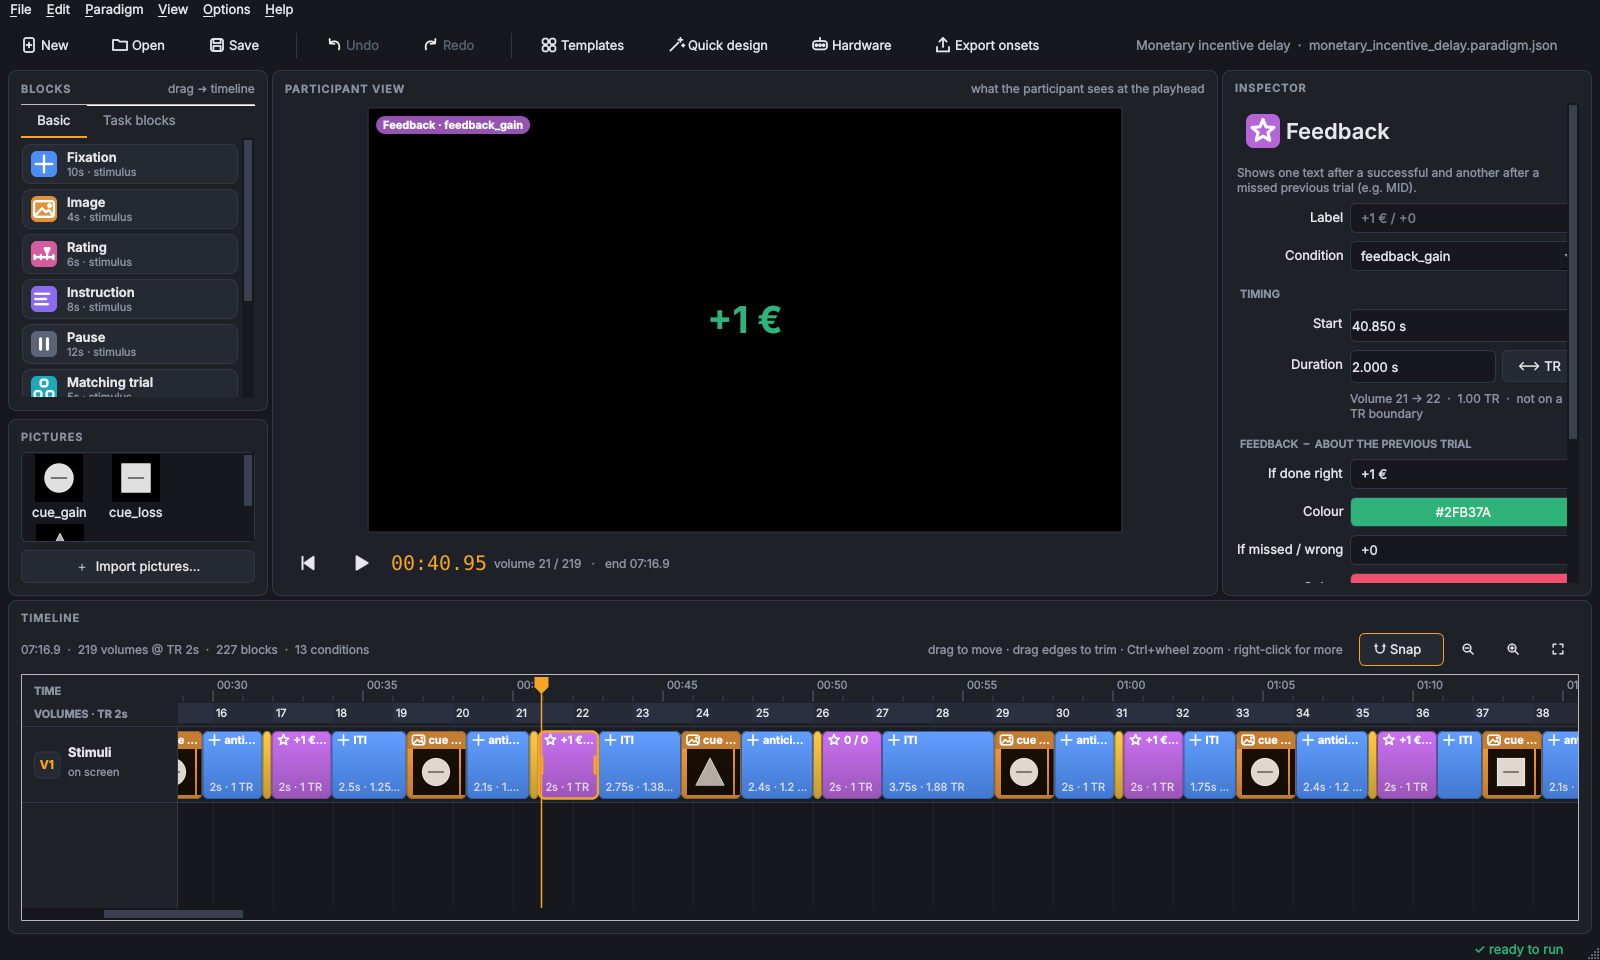
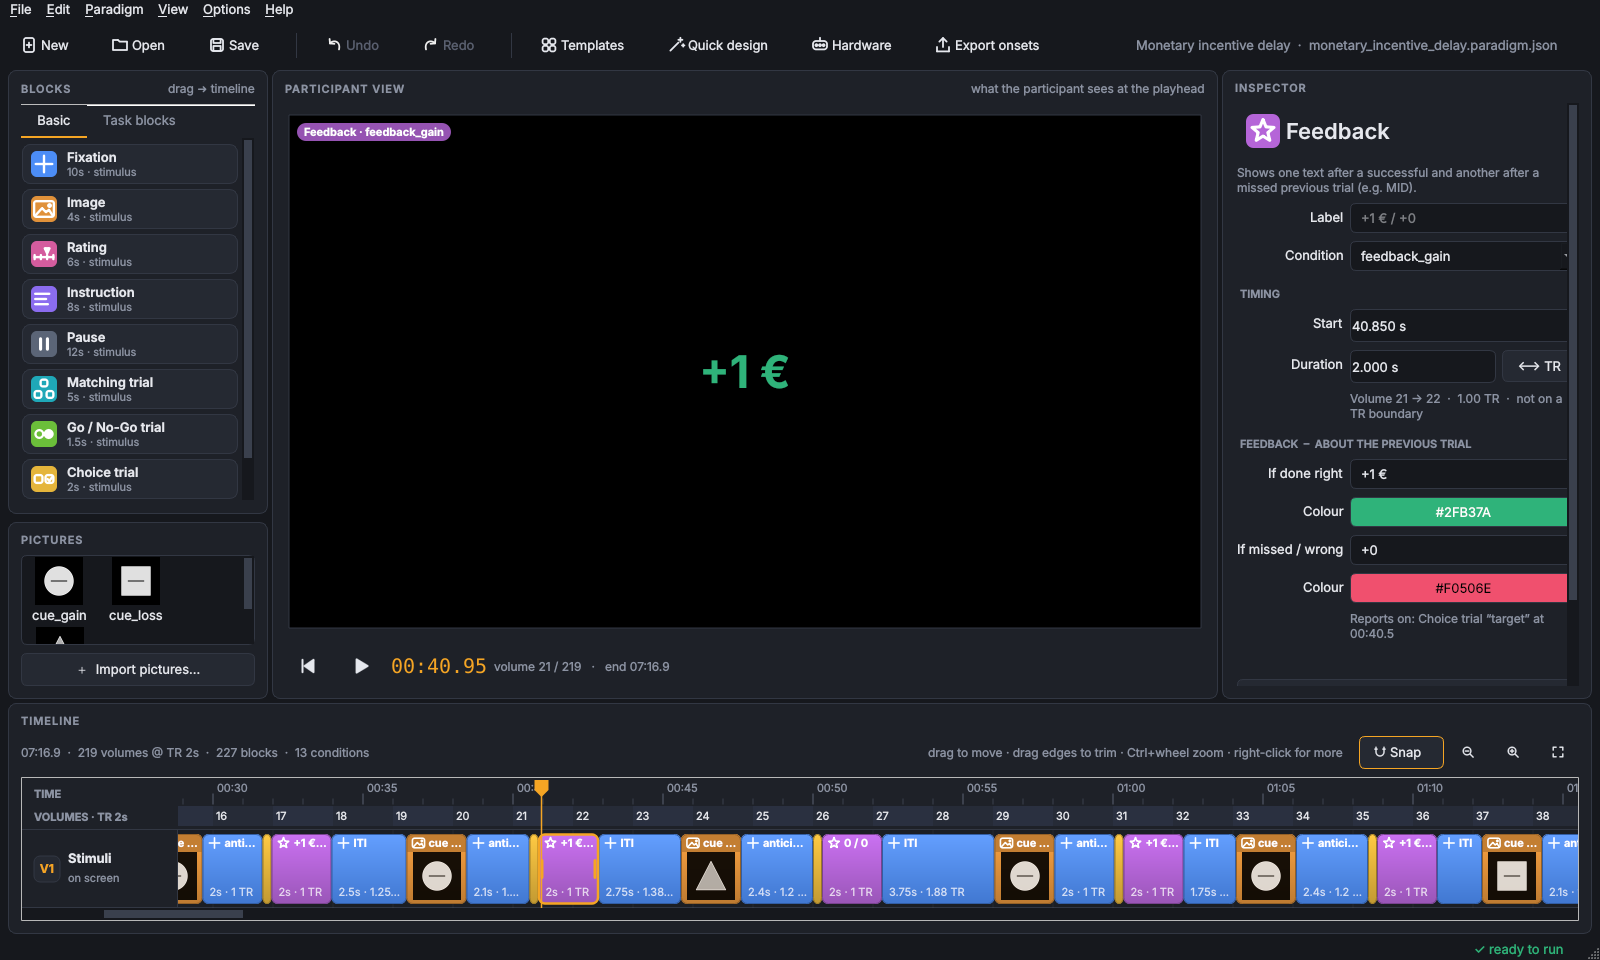
Timeline: single track fills the panel, no vertical scrolling, smallest by default
- The stimulus track scales with the timeline panel's height (minimum
  76 px); the vertical scrollbar is gone, so the content can't be
  scrolled up or down
- The timeline panel starts at its minimum height (top edge as low as
  possible); window resizing gives extra room to the panels above
- Track header text is centred vertically; thumbnails are cached in 8-px
  height steps
- Run test presses relative to the run start (was timing-dependent)

Claude-Session: https://claude.ai/code/session_01XoVQjxpMJqrgYsRynorSKz

Changed region(s): [[0.0, 0.0938, 1.0, 0.9688], [0.4375, 0.375, 0.5, 0.4062], [0.4375, 0.3125, 0.5, 0.3438]]

diff --git a/paradigmshift/timeline.py b/paradigmshift/timeline.py
@@ -19,7 +19,7 @@ IMAGE_EXT = (".png", ".jpg", ".jpeg", ".bmp", ".gif", ".tif", ".tiff", ".webp")
 
 RULER_H = 52
 HEADER_W = 156
-TRACK_H = 76
+TRACK_H = 76          # minimum track height – tracks grow to fill the panel
 TRACK_PAD = 8
 EDGE = 7            # px grab zone for resizing
 SNAP_PX = 10        # magnetic snapping distance
@@ -52,7 +52,7 @@ class TimelineView(QAbstractScrollArea):
         self.viewport().setAcceptDrops(True)
         self.viewport().setMouseTracking(True)
         self.setFocusPolicy(Qt.StrongFocus)
-        self.setVerticalScrollBarPolicy(Qt.ScrollBarAsNeeded)
+        self.setVerticalScrollBarPolicy(Qt.ScrollBarAlwaysOff)   # tracks scale to the panel – nothing to scroll
         self.setHorizontalScrollBarPolicy(Qt.ScrollBarAlwaysOn)
         self.horizontalScrollBar().valueChanged.connect(self.viewport().update)
         self.verticalScrollBar().valueChanged.connect(self.viewport().update)
@@ -75,7 +75,13 @@ class TimelineView(QAbstractScrollArea):
         return self.horizontalScrollBar().value()
 
     def _scroll_y(self) -> int:
-        return self.verticalScrollBar().value()
+        return 0
+
+    @property
+    def track_h(self) -> float:
+        """Tracks share the panel's height (never smaller than TRACK_H)."""
+        n = max(1, len(self.p.tracks))
+        return max(TRACK_H, (self.viewport().height() - RULER_H) / n)
 
     def x_of(self, t: float) -> float:
         return HEADER_W + t * self.pps - self._scroll_x()
@@ -84,17 +90,17 @@ class TimelineView(QAbstractScrollArea):
         return (x - HEADER_W + self._scroll_x()) / self.pps
 
     def track_top(self, i: int) -> float:
-        return RULER_H + i * TRACK_H - self._scroll_y()
+        return RULER_H + i * self.track_h - self._scroll_y()
 
     def track_at(self, y: float) -> int | None:
         if y < RULER_H:
             return None
-        i = int((y - RULER_H + self._scroll_y()) // TRACK_H)
+        i = int((y - RULER_H + self._scroll_y()) // self.track_h)
         return i if 0 <= i < len(self.p.tracks) else None
 
     def block_rect(self, b: Block) -> QRectF:
         top = self.track_top(b.track) + TRACK_PAD / 2
-        return QRectF(self.x_of(b.start), top, max(2.0, b.duration * self.pps), TRACK_H - TRACK_PAD)
+        return QRectF(self.x_of(b.start), top, max(2.0, b.duration * self.pps), self.track_h - TRACK_PAD)
 
     def block_at(self, pos: QPointF) -> tuple[Block | None, str]:
         for b in sorted(self.p.blocks, key=lambda b: -b.start):
@@ -119,7 +125,7 @@ class TimelineView(QAbstractScrollArea):
         sb.setRange(0, max(0, int(content - self.viewport().width())))
         sb.setPageStep(self.viewport().width())
         sb.setSingleStep(20)
-        h = RULER_H + len(self.p.tracks) * TRACK_H
+        h = RULER_H + len(self.p.tracks) * self.track_h
         vb = self.verticalScrollBar()
         vb.setRange(0, max(0, h - self.viewport().height()))
         vb.setPageStep(self.viewport().height())
@@ -221,20 +227,22 @@ class TimelineView(QAbstractScrollArea):
     def _paint_tracks(self, p, w, h):
         for i, _name in enumerate(self.p.tracks):
             top = self.track_top(i)
-            p.fillRect(QRectF(HEADER_W, top, w - HEADER_W, TRACK_H), QColor("#1B1E24" if i % 2 == 0 else "#191B21"))
+            th = self.track_h
+            p.fillRect(QRectF(HEADER_W, top, w - HEADER_W, th), QColor("#1B1E24" if i % 2 == 0 else "#191B21"))
             p.setPen(QColor(theme.BORDER))
-            p.drawLine(QPointF(HEADER_W, top + TRACK_H - .5), QPointF(w, top + TRACK_H - .5))
+            p.drawLine(QPointF(HEADER_W, top + th - .5), QPointF(w, top + th - .5))
 
     def _paint_headers(self, p, h):
         p.fillRect(QRectF(0, RULER_H, HEADER_W, h - RULER_H), QColor(theme.PANEL))
         for i, name in enumerate(self.p.tracks):
             top = self.track_top(i)
-            if top + TRACK_H < RULER_H:
+            th = self.track_h
+            if top + th < RULER_H:
                 continue
-            r = QRectF(0, top, HEADER_W, TRACK_H)
+            r = QRectF(0, top, HEADER_W, th)
             p.setPen(QColor(theme.BORDER))
             p.drawLine(r.bottomLeft() + QPointF(0, -.5), r.bottomRight() + QPointF(0, -.5))
-            badge = QRectF(12, top + TRACK_H / 2 - 13, 26, 26)
+            badge = QRectF(12, top + th / 2 - 13, 26, 26)
             p.setBrush(QColor(theme.PANEL_2))
             p.setPen(QPen(QColor(theme.BORDER)))
             p.drawRoundedRect(badge, 6, 6)
@@ -243,11 +251,11 @@ class TimelineView(QAbstractScrollArea):
             p.drawText(badge, Qt.AlignCenter, ("V" if i == 0 else "R") + str(i + 1))
             p.setPen(QColor(theme.TEXT))
             p.setFont(theme.ui_font(10, True))
-            p.drawText(QRectF(46, top + 14, HEADER_W - 50, 22), Qt.AlignLeft | Qt.AlignVCenter, name)
+            p.drawText(QRectF(46, top + th / 2 - 22, HEADER_W - 50, 22), Qt.AlignLeft | Qt.AlignVCenter, name)
             p.setPen(QColor(theme.TEXT_DIM))
             p.setFont(theme.ui_font(8))
             sub = "on screen" if i == 0 else "grip presses" if i == 1 else "extra"
-            p.drawText(QRectF(46, top + 36, HEADER_W - 50, 18), Qt.AlignLeft | Qt.AlignVCenter, sub)
+            p.drawText(QRectF(46, top + th / 2, HEADER_W - 50, 18), Qt.AlignLeft | Qt.AlignVCenter, sub)
         p.setPen(QColor(theme.BORDER))
         p.drawLine(QPointF(HEADER_W - .5, RULER_H), QPointF(HEADER_W - .5, h))
 
@@ -356,7 +364,7 @@ class TimelineView(QAbstractScrollArea):
         # image thumbnails
         img = b.thumbnail_path
         if img and r.width() > 40:
-            th = thumbnail(img, int(r.height() - 22))
+            th = thumbnail(img, max(16, int(r.height() - 22) // 8 * 8))   # 8-px steps keep the cache small
             if th is not None:
                 x = r.left() + 6
                 while x < r.right() - 4:
@@ -418,7 +426,7 @@ class TimelineView(QAbstractScrollArea):
             self._paint_block(p, b, ghost=True)
 
     def _paint_empty_hint(self, p, w):
-        r = QRectF(HEADER_W + 30, self.track_top(0) + 8, max(300, w - HEADER_W - 60), TRACK_H - 16)
+        r = QRectF(HEADER_W + 30, self.track_top(0) + 8, max(300, w - HEADER_W - 60), self.track_h - 16)
         p.setPen(QPen(QColor("#3A404D"), 1.5, Qt.DashLine))
         p.setBrush(Qt.NoBrush)
         p.drawRoundedRect(r, 8, 8)

diff --git a/tests/test_gui.py b/tests/test_gui.py
@@ -136,6 +136,9 @@ def test_full_run_with_simulated_scanner(app, tmp_path):
 
     def probe():
         seen.setdefault(c.phase, (len(c.state.triggers), cr.pill.text()))
+        if c.phase == "running" and "pressed" not in seen:   # a grip press 0.2 s into the fixation
+            seen["pressed"] = True
+            QTimer.singleShot(200, lambda: c.router.feed("b"))
         if c.phase == "dummy":   # participant screen shows only the waiting text, no trigger counts
             img = QImage(400, 225, QImage.Format_RGB32)
             p = QPainter(img)
@@ -150,7 +153,6 @@ def test_full_run_with_simulated_scanner(app, tmp_path):
     got = []
     c.finished.connect(lambda files: (got.extend(files), loop.quit()))
     QTimer.singleShot(10000, loop.quit)
-    QTimer.singleShot(2400, lambda: c.router.feed("b"))   # a grip press during the fixation
     loop.exec()
     poll.stop()
     app.processEvents()

diff --git a/paradigmshift/mainwindow.py b/paradigmshift/mainwindow.py
@@ -324,9 +324,12 @@ class MainWindow(QMainWindow):
         tlay.addLayout(bar)
         tlay.addWidget(self.timeline, 1)
         vsplit.addWidget(tl)
-        vsplit.setStretchFactor(0, 3)
-        vsplit.setStretchFactor(1, 2)
-        vsplit.setSizes([520, 330])
+        # The timeline has a single track that scales with the panel. By default it sits at its smallest
+        # height (top edge as low as possible); window resizing gives the extra room to the panels above.
+        vsplit.setChildrenCollapsible(False)
+        vsplit.setStretchFactor(0, 1)
+        vsplit.setStretchFactor(1, 0)
+        vsplit.setSizes([10000, 1])
         root.addWidget(vsplit)
         self.setCentralWidget(central)
         self.status = QLabel()
